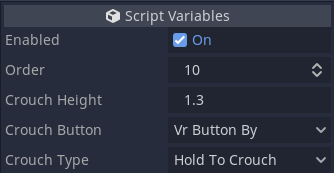
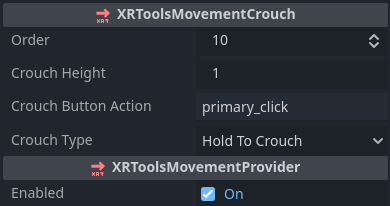
Updated documentation and screen-shots for crouching including links to videos.

diff --git a/_docs/movement/crouching.md b/_docs/movement/crouching.md
@@ -18,14 +18,22 @@ The setup should now look like:
 Next select the MovementCrouch node and configure:
 ![Crouch Configuration]({{ site.url }}/assets/img/crouching/crouch_config.png)
 
+
 ## Configuration
 
 ### XRToolsMovementCrouch
 
-| Property      | Description                                                     |
-| ------------- | --------------------------------------------------------------- |
-| Enabled       | When ticked this node will control the players movement.       |
-| Order         | The order in which this movement is processed in case multiple movement functions are active.  |
-| Crouch Height | The height forced on the player when crouching.  |
-| Crouch Button | Which button triggers crouching.  |
-| Crouch Type   | Crouch control type - either "Hold to Crouch" or "Toggle Crouch".  |
+| Property | Description |
+| ---- | ------------ |
+| Order                | The order in which this movement is processed in case multiple movement functions are active |
+| Crouch Height        | The height forced on the player when crouching |
+| Crouch Button Action | OpenXR Bool action to trigger the crouch (usually `by_button` when using the default action map) |
+| Crouch Type          | Crouch control type - either "Hold to Crouch" or "Toggle Crouch" |
+| Enabled              | When ticked this node will control the players movement |
+
+
+## Additional Resources
+
+The following videos show the creation of a basic XR Player with hands and movement including crouching:
+* [Getting Started](https://youtu.be/VrpySdMcdyw)
+* [Basic Movement](https://youtu.be/29qlCRw2TpE)
